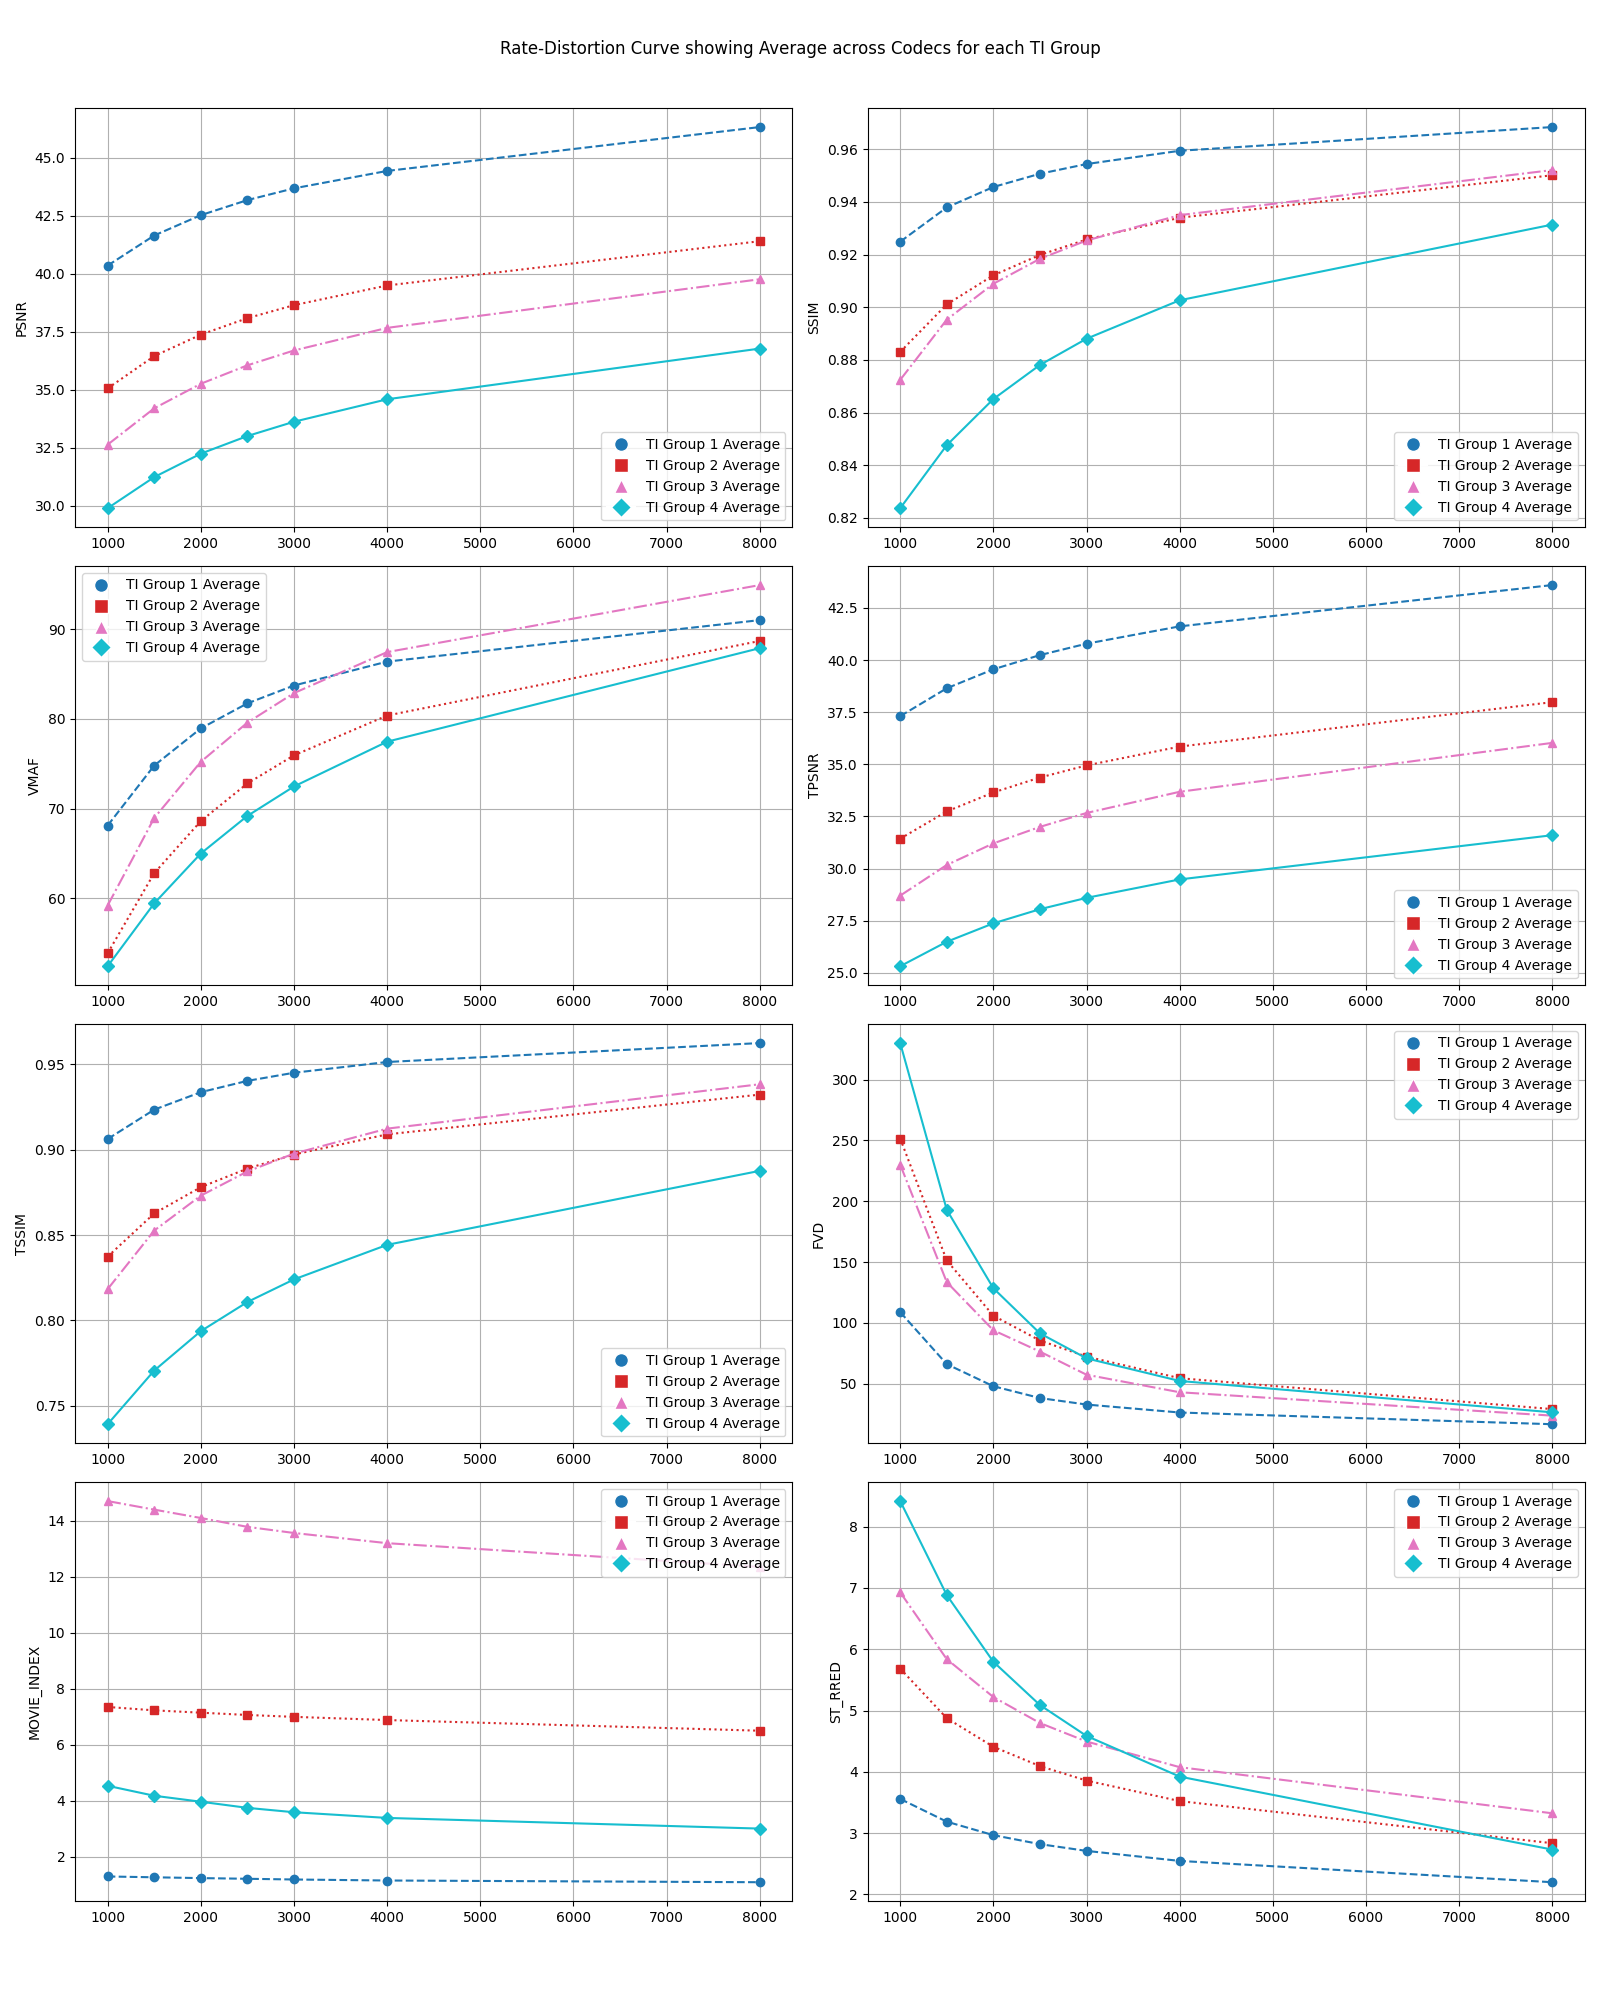
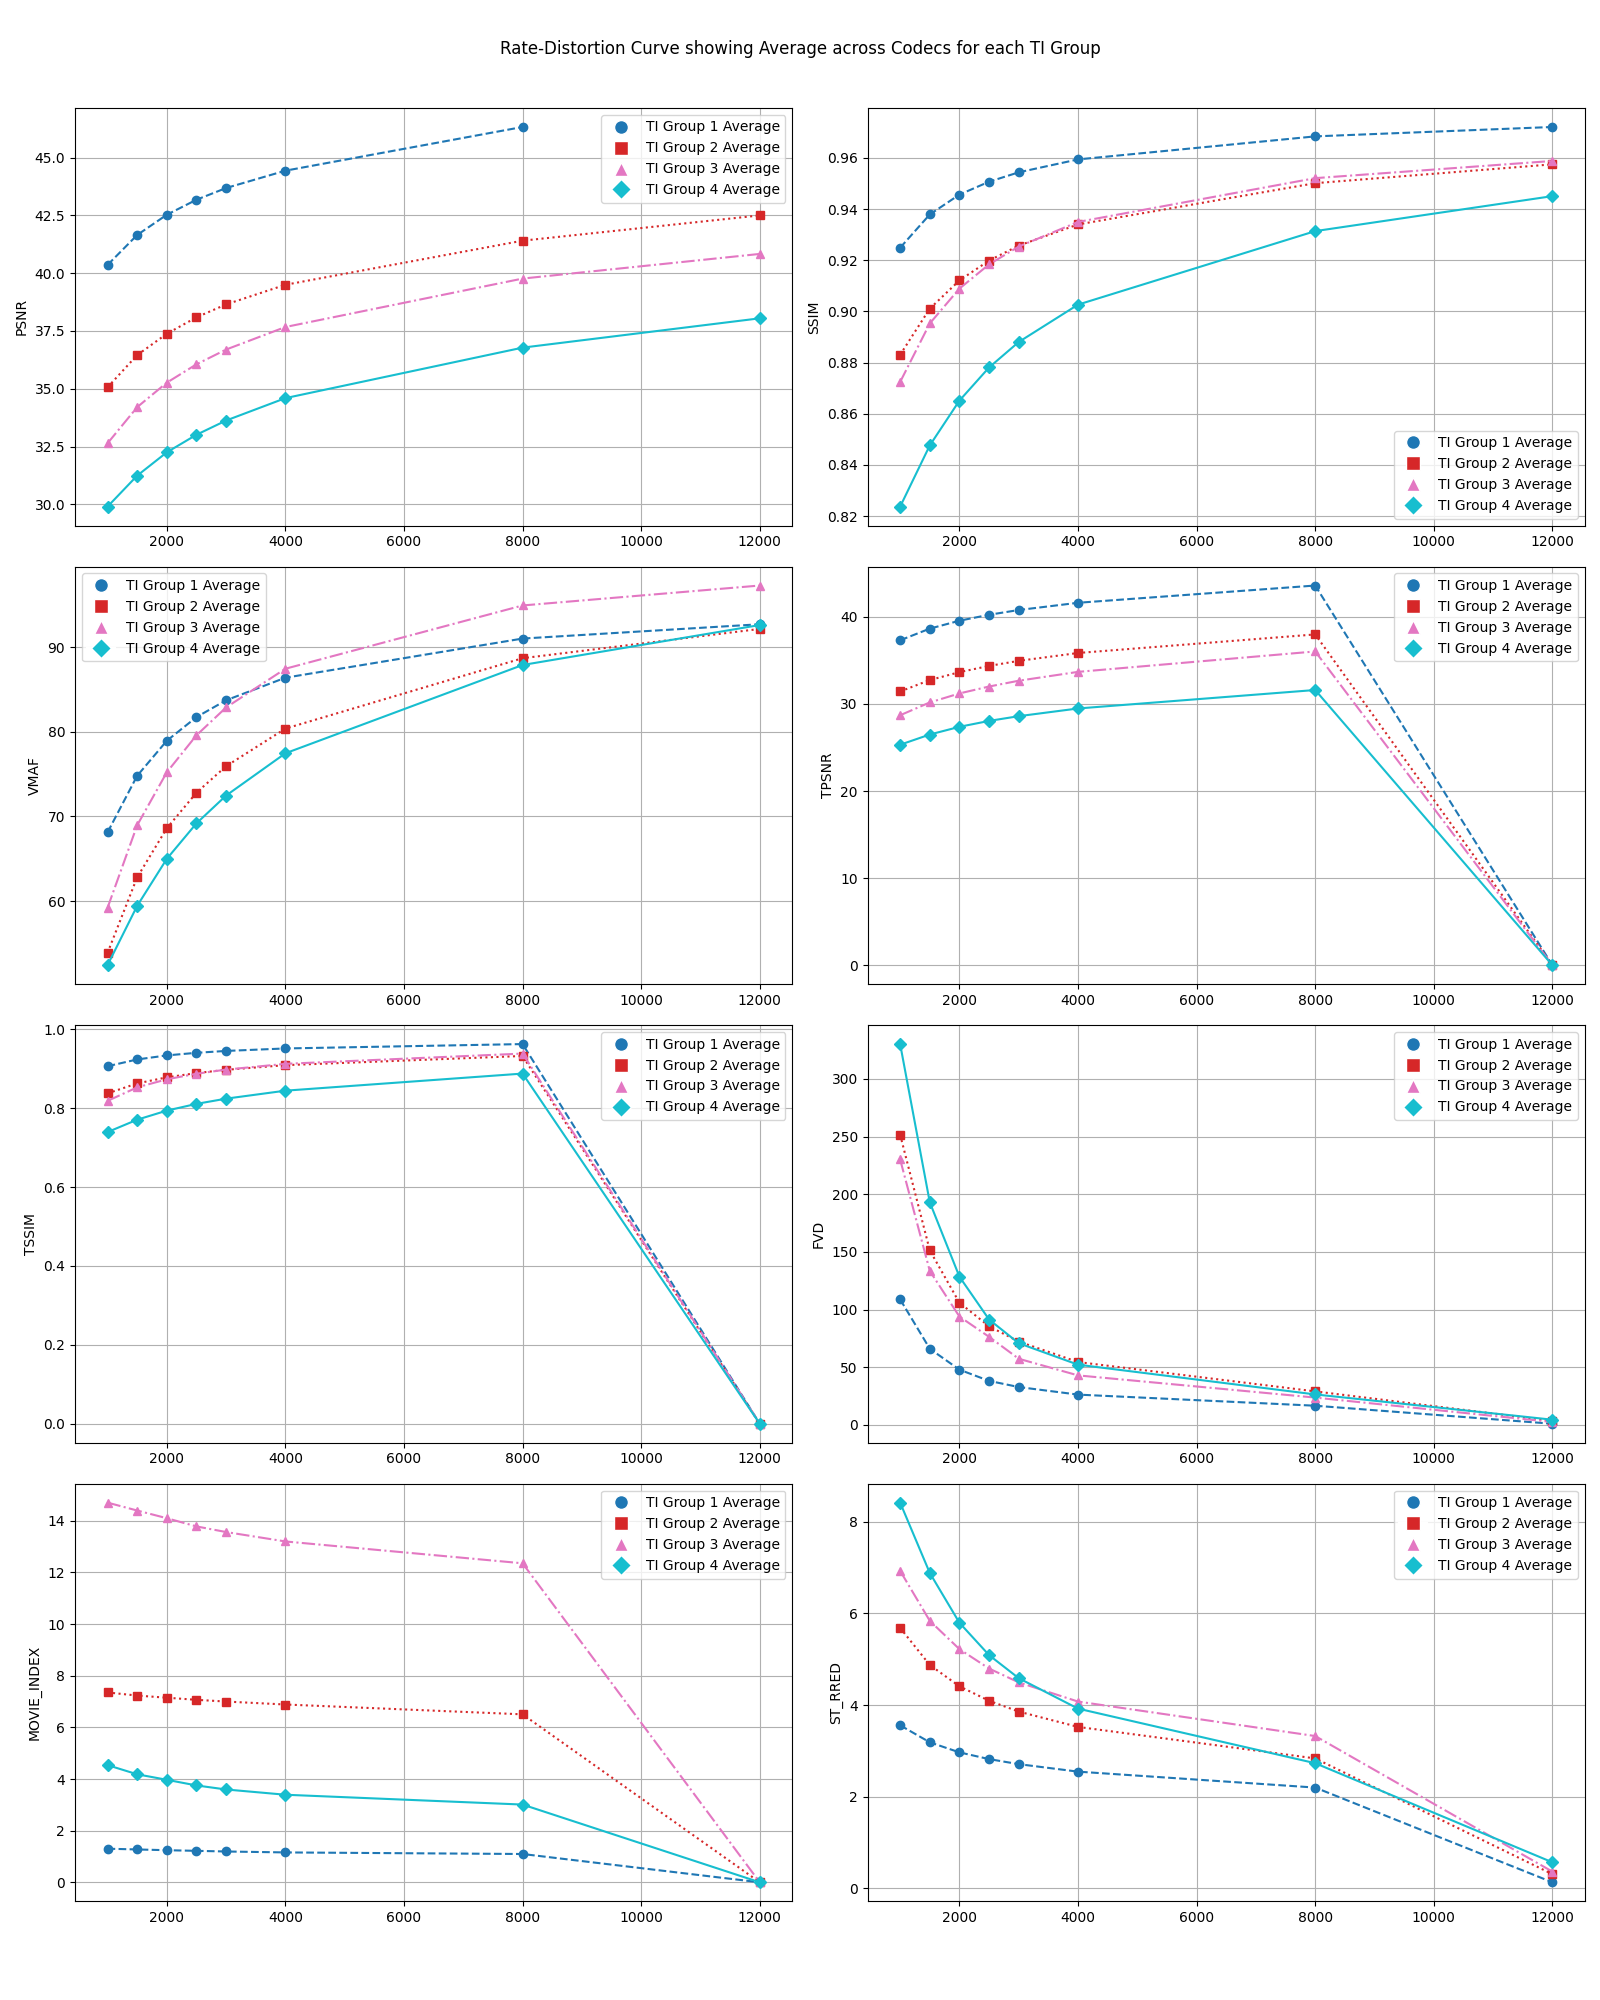
new strred and fvd results

diff --git a/eval_metrics.py b/eval_metrics.py
@@ -37,7 +37,7 @@ datasets = ["BVI-HD","HEVC_CLASS_B","UVG"]
 codecs = ["h264","hevc","vp9","av1"]
 levels = ["12"]
 
-compute_metrics =["psnr","ssim","vmaf"]
+compute_metrics =["fvd","st_rred"]
 
 force = False
 # is force is True we recompute all metrics even if they already exist

diff --git a/visualizations/visualize_results_line.py b/visualizations/visualize_results_line.py
@@ -5,7 +5,7 @@ import json
 from TI_groups import get_TI_groups
 
 datasets = [ "BVI-HD", "HEVC_CLASS_B", "UVG"]
-levels = [1,1.5,2,2.5,3,4,8]
+levels = [1,1.5,2,2.5,3,4,8,12]
 codecs = ["h264", "hevc", "vp9", "av1"]
 
 dataset_2_files = {
